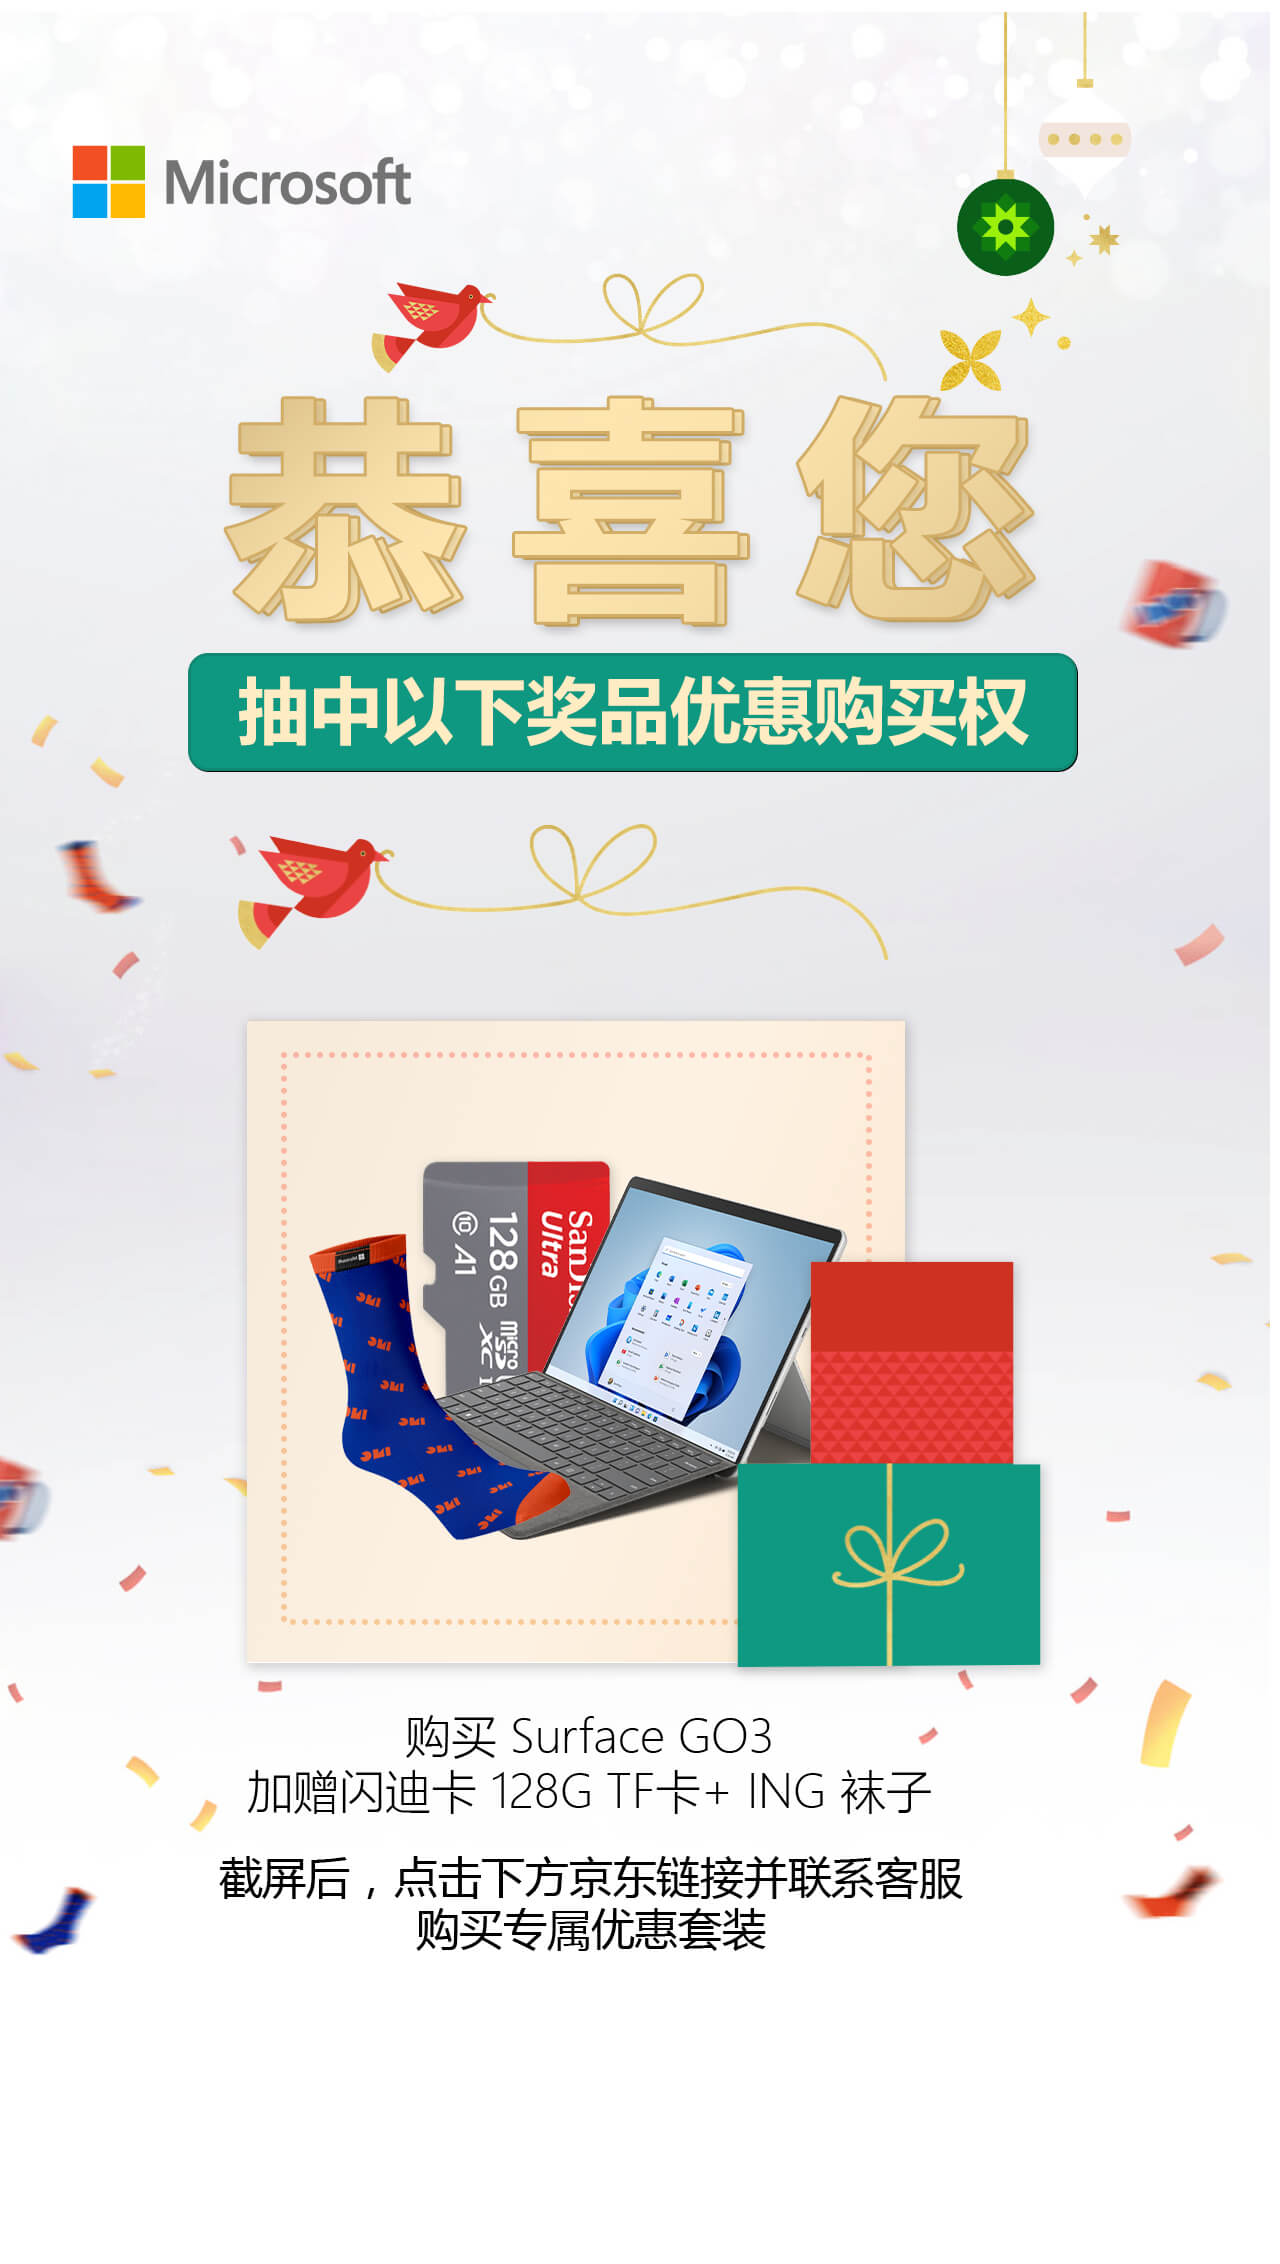
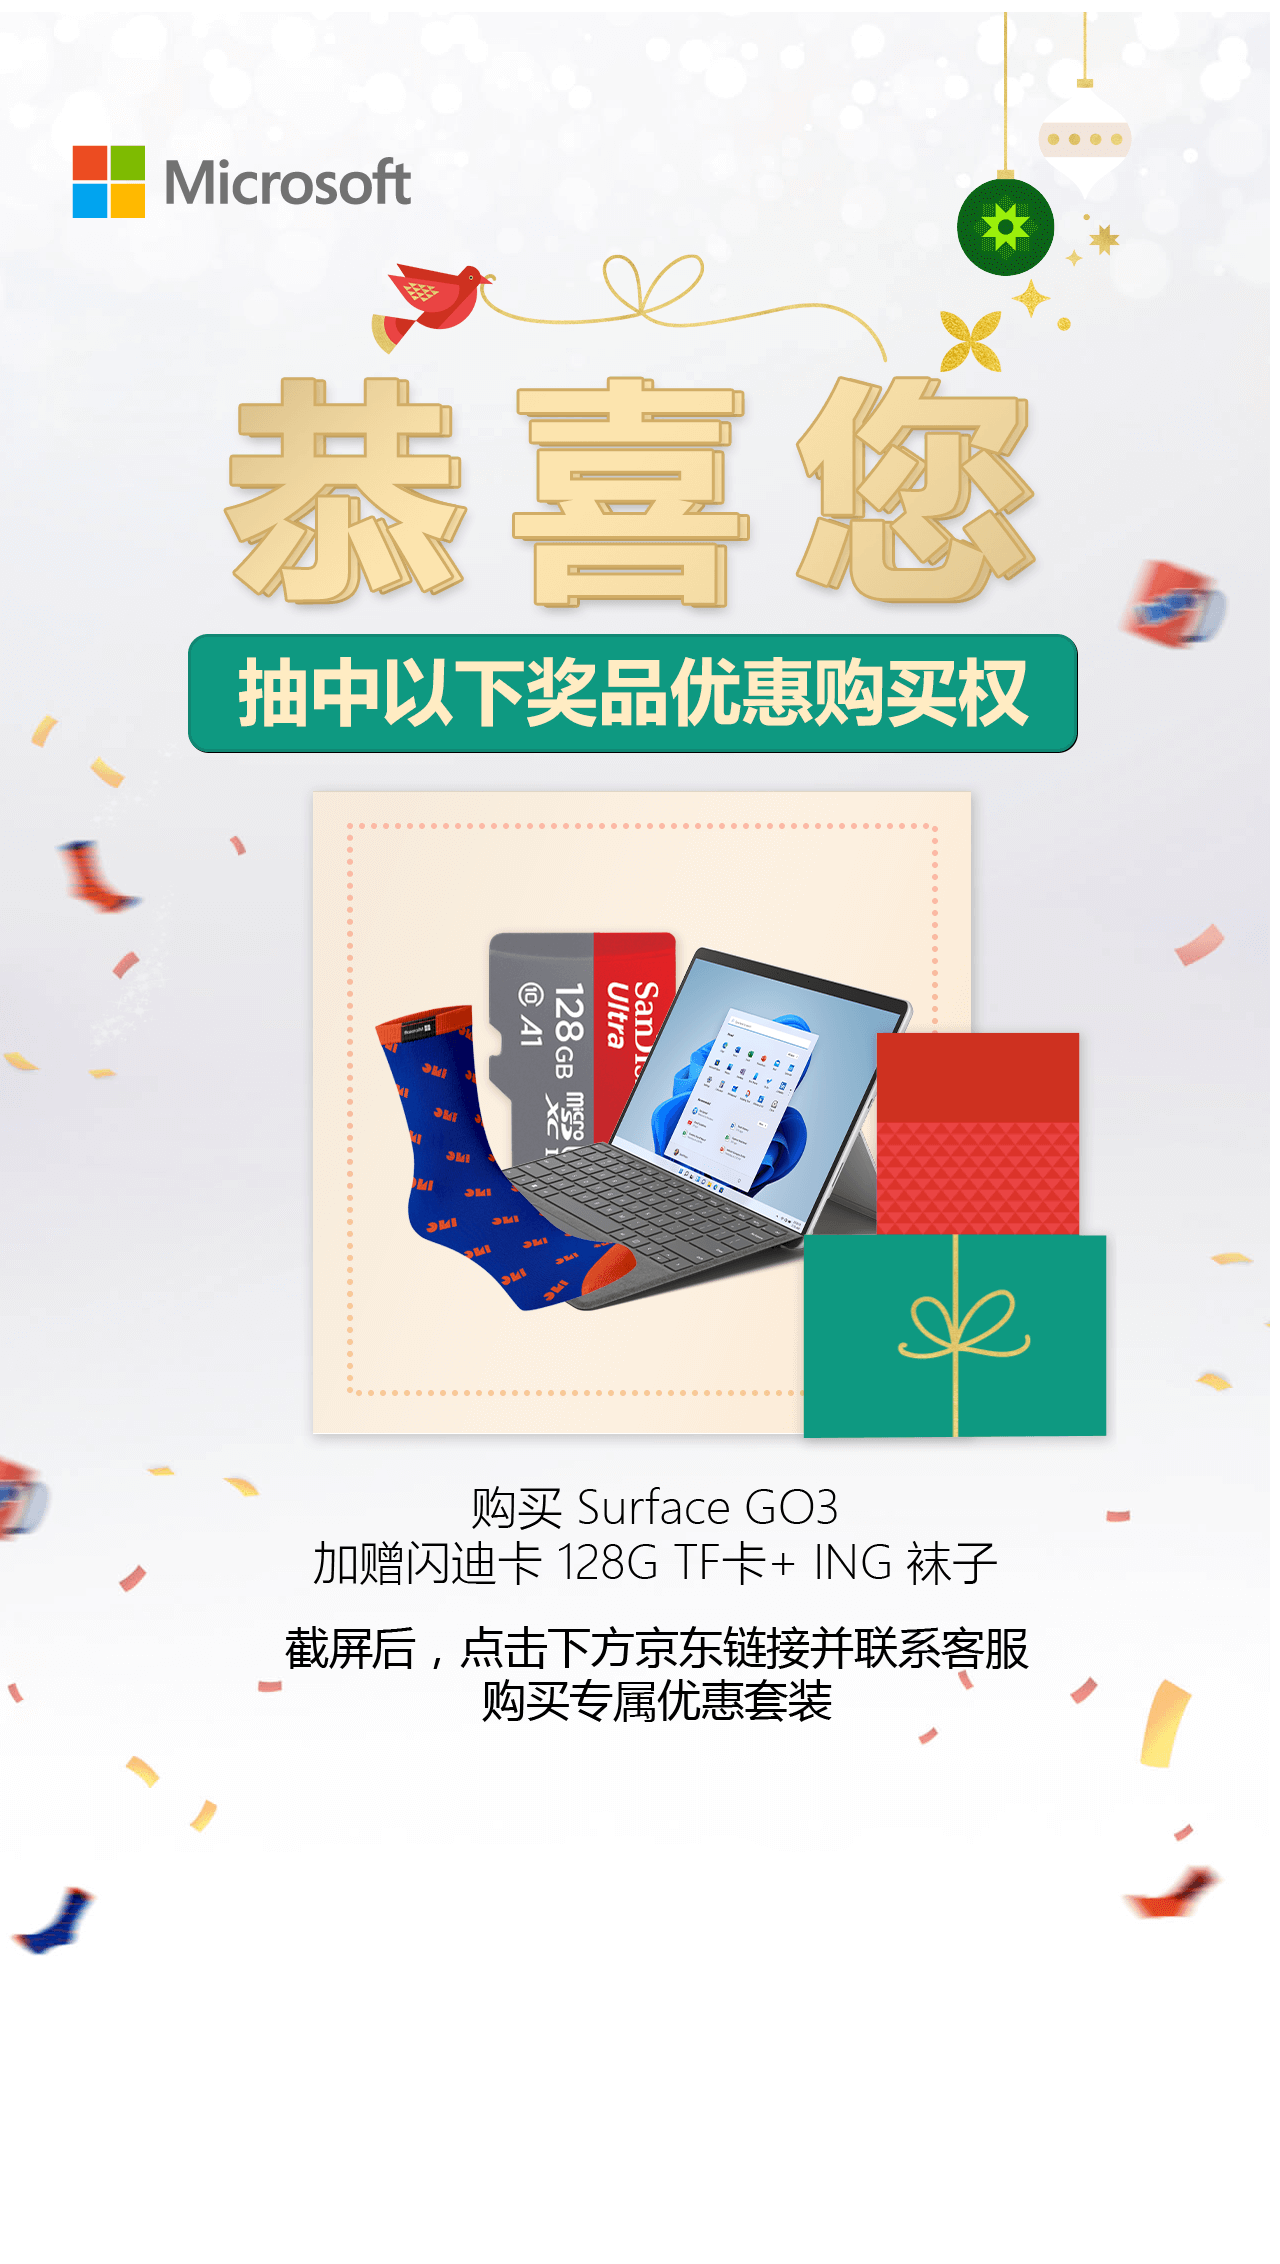
适配了

Changed region(s): [[0.1562, 0.0928, 0.875, 0.8657], [0.1875, 0.371, 0.3125, 0.4329]]

diff --git a/resources/views/win-prize.blade.php b/resources/views/win-prize.blade.php
@@ -14,21 +14,21 @@
             background-image: url("<?= asset('/jy/'.$bg.'P.jpg')?>");
             background-size: 100vw 100vh;
             width: 100vw;
-            height: 100vh;
+            height: 99vh;
             background-repeat: no-repeat;
             position: fixed;
         }
 
         .btn-1 {
             width: 70vw;
-            height: 12vh;
+            height: 14vh;
             padding: 1vh;
             position: fixed;
             overflow: hidden;
             left: 50%;
             top: 100%;
             margin-left: -34vw;
-            margin-top: -17vh;
+            margin-top: -25vh;
         }
 
         .btn-2 {
@@ -39,8 +39,8 @@
             overflow: hidden;
             left: 50%;
             top: 100%;
-            margin-left: -10vw;
-            margin-top: -6vh;
+            margin-left: -9vw;
+            margin-top: -12vh;
         }
         .btn-3 {
             width: 100vw;

diff --git a/resources/views/win-prize2.blade.php b/resources/views/win-prize2.blade.php
@@ -11,7 +11,7 @@
     <link rel="stylesheet" type="text/css" href="<?= asset('/jy/component.css') ?>">
     <style>
         .demo-1 .large-header {
-            background-image: url("<?= asset('/jy/'.$bg.'p.jpg')?>");
+            background-image: url("<?= asset('/jy/'.$bg.'P.jpg')?>");
             background-size: 100vw 100vh;
             width: 100vw;
             height: 100vh;
@@ -28,7 +28,7 @@
             left: 50%;
             top: 100%;
             margin-left: -34vw;
-            margin-top: -22vh;
+            margin-top: -32vh;
         }
 
         .btn-2 {
@@ -40,7 +40,7 @@
             left: 50%;
             top: 100%;
             margin-left: -34vw;
-            margin-top: -13vh;
+            margin-top: -22vh;
             text-align: center;
         }
         .btn-3 {

diff --git a/resources/views/win-prize3.blade.php b/resources/views/win-prize3.blade.php
@@ -27,7 +27,7 @@
         }
 
         .demo-1 .large-header {
-            background-image: url("<?= asset('/jy/'.$bg.'p.jpg')?>");
+            background-image: url("<?= asset('/jy/'.$bg.'P.jpg')?>");
             background-size: 100vw 100vh;
             width: 100vw;
             height: 100vh;
@@ -44,7 +44,7 @@
             left: 50%;
             top: 100%;
             margin-left: -34vw;
-            margin-top: -18vh;
+            margin-top: -26vh;
         }
 
         .btn-2 {
@@ -67,7 +67,7 @@
             left: 0;
             top: 100%;
             margin-left: 0;
-            margin-top: -22vh;
+            margin-top: -30vh;
             font-size: 1rem;
             text-align: center;
         }

diff --git a/resources/views/poster2.blade.php b/resources/views/poster2.blade.php
@@ -20,7 +20,7 @@ background-image: url("<?= asset('/images/'.$bg.'P.jpg')?>");
             <?php
         } else {
             ?>
-background-image: url("<?= asset('/jy/'.$bg.'p.jpg')?>");
+background-image: url("<?= asset('/jy/'.$bg.'P.jpg')?>");
             <?php
         }
      ?>
@@ -71,7 +71,7 @@ background-image: url("<?= asset('/images/'.$bg.'X.jpg')?>");
                 <?php
                     } else {
                 ?>
-                        background-image: url("<?= asset('/jy/'.$bg.'x.jpg')?>");
+                        background-image: url("<?= asset('/jy/'.$bg.'X.jpg')?>");
                 <?php
                   }
                  ?>

diff --git a/resources/views/poster.blade.php b/resources/views/poster.blade.php
@@ -19,7 +19,7 @@
                     <?php
                 } else {
                     ?>
-                            background-image: url("<?= asset('/jy/'.$bg.'p.jpg')?>");
+                            background-image: url("<?= asset('/jy/'.$bg.'P.jpg')?>");
                     <?php
                 }
              ?>
@@ -70,7 +70,7 @@
                 <?php
                     } else {
                 ?>
-                        background-image: url("<?= asset('/jy/'.$bg.'x.jpg')?>");
+                        background-image: url("<?= asset('/jy/'.$bg.'X.jpg')?>");
                 <?php
                   }
                  ?>

diff --git a/resources/views/agreement.blade.php b/resources/views/agreement.blade.php
@@ -16,7 +16,7 @@
     <![endif]-->
 </head>
 <body>
-我同意本网站使用我的一切隐私，随便用吧！
+
 
 </body>
 </html>
